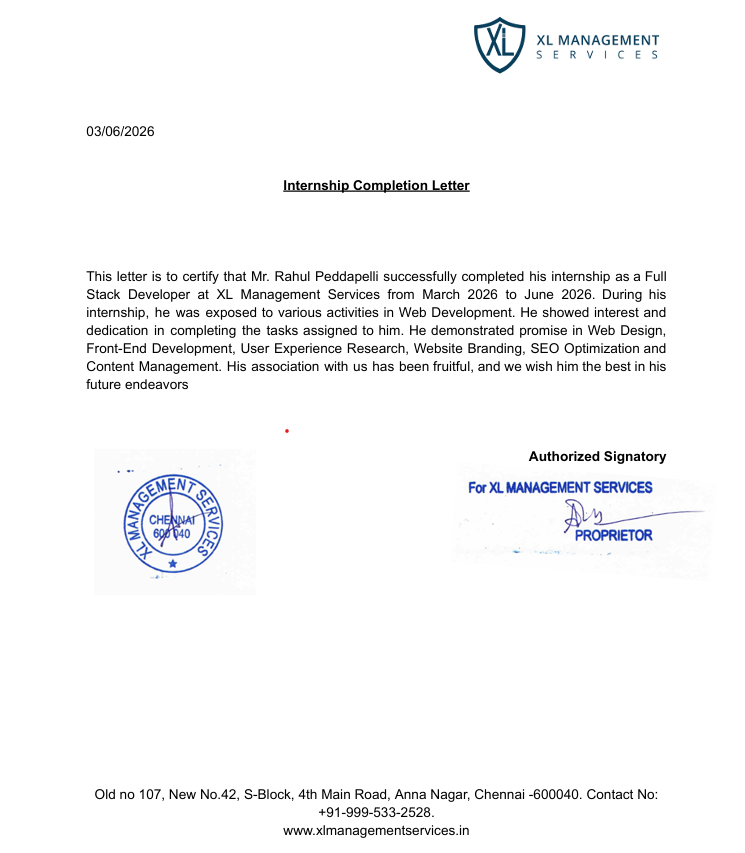
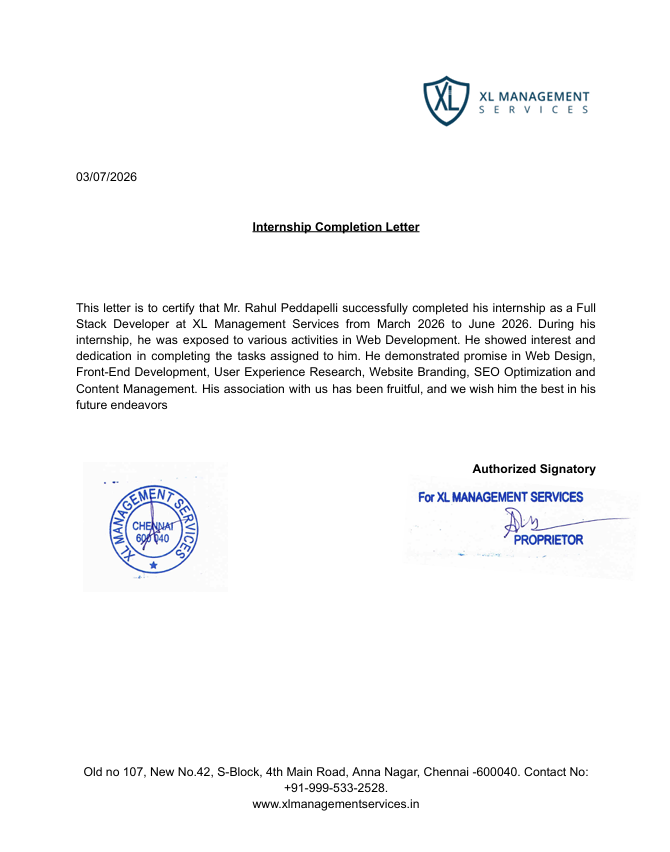
added experience media

diff --git a/src/data/experienceData.js b/src/data/experienceData.js
@@ -1,6 +1,6 @@
 import xlLogo from "../assets/experience/xl/xl-management-logo.webp";
 import certificate from "../assets/experience/xl/xl-internship-certificate.png";
-import lor from "../assets/experience/xl/xl-lor.png";
+import lor from "../assets/experience/xl/xl-reccomendation-letter.png";
 
 
 export const experiences = [
@@ -17,7 +17,7 @@ export const experiences = [
 
         startDate: "03/26",
 
-        endDate: "Present",
+        endDate: "07/26",
 
         shortDescription:
             "Contributed to the development of client websites and web applications, focusing on responsive design, user experience improvements, SEO implementation, and end-to-end project delivery.",
@@ -50,15 +50,15 @@ export const experiences = [
             "React",
         ],
 
-        // gallery: [
-        //     {
-        //         title: "Internship Certificate",
-        //         image: certificate,
-        //     },
-        //     {
-        //         title: "Letter of Recommendation",
-        //         image: lor,
-        //     },
-        // ],
+        gallery: [
+            {
+                title: "Internship Certificate",
+                image: certificate,
+            },
+            {
+                title: "Letter of Recommendation",
+                image: lor,
+            },
+        ],
     },
 ];

diff --git a/src/sections/experience/Experience.jsx b/src/sections/experience/Experience.jsx
@@ -146,12 +146,12 @@ const Experience = () => {
                                     </p>
 
                                     <button
-                                        className="know-more-btn"
+                                        className="know-more-btn-wrap"
                                         onClick={() =>
                                             setSelectedExp(exp)
                                         }
                                     >
-                                        Know More →
+                                        Know More <span className="know-more-btn-arrow">→</span>
                                     </button>
 
                                 </div>

diff --git a/src/sections/experience/Experience.css b/src/sections/experience/Experience.css
@@ -202,29 +202,25 @@
 /* =========================
    KNOW MORE BTN
 ========================= */
-
-.know-more-btn {
+.know-more-btn-wrap {
     margin-top: 1rem;
-
     background: transparent;
-
     border: none;
-
     color: white;
-
     cursor: pointer;
-
     font-size: .95rem;
-
     display: inline-flex;
     align-items: center;
-
-    gap: .4rem;
-
-    transition: .3s;
 }
 
-.know-more-btn:hover {
+.know-more-btn-arrow {
+    display: inline-block;
+    width: 16px;           /* reserve space */
+    margin-left: .4rem;
+    transition: transform .3s ease;
+}
+
+.know-more-btn-wrap:hover .know-more-btn-arrow {
     transform: translateX(4px);
 }
 

diff --git a/src/sections/projects/ProjectCard.jsx b/src/sections/projects/ProjectCard.jsx
@@ -79,9 +79,9 @@ const ProjectCard = ({
           </div>
 
           <button
-            className="know-more-btn"
+            className="know-more-btn-wrap"
             onClick={() => onOpen(project)}>
-            Know More →
+            Know More <span className="know-more-btn-arrow">→</span>
           </button>
 
         </div>
